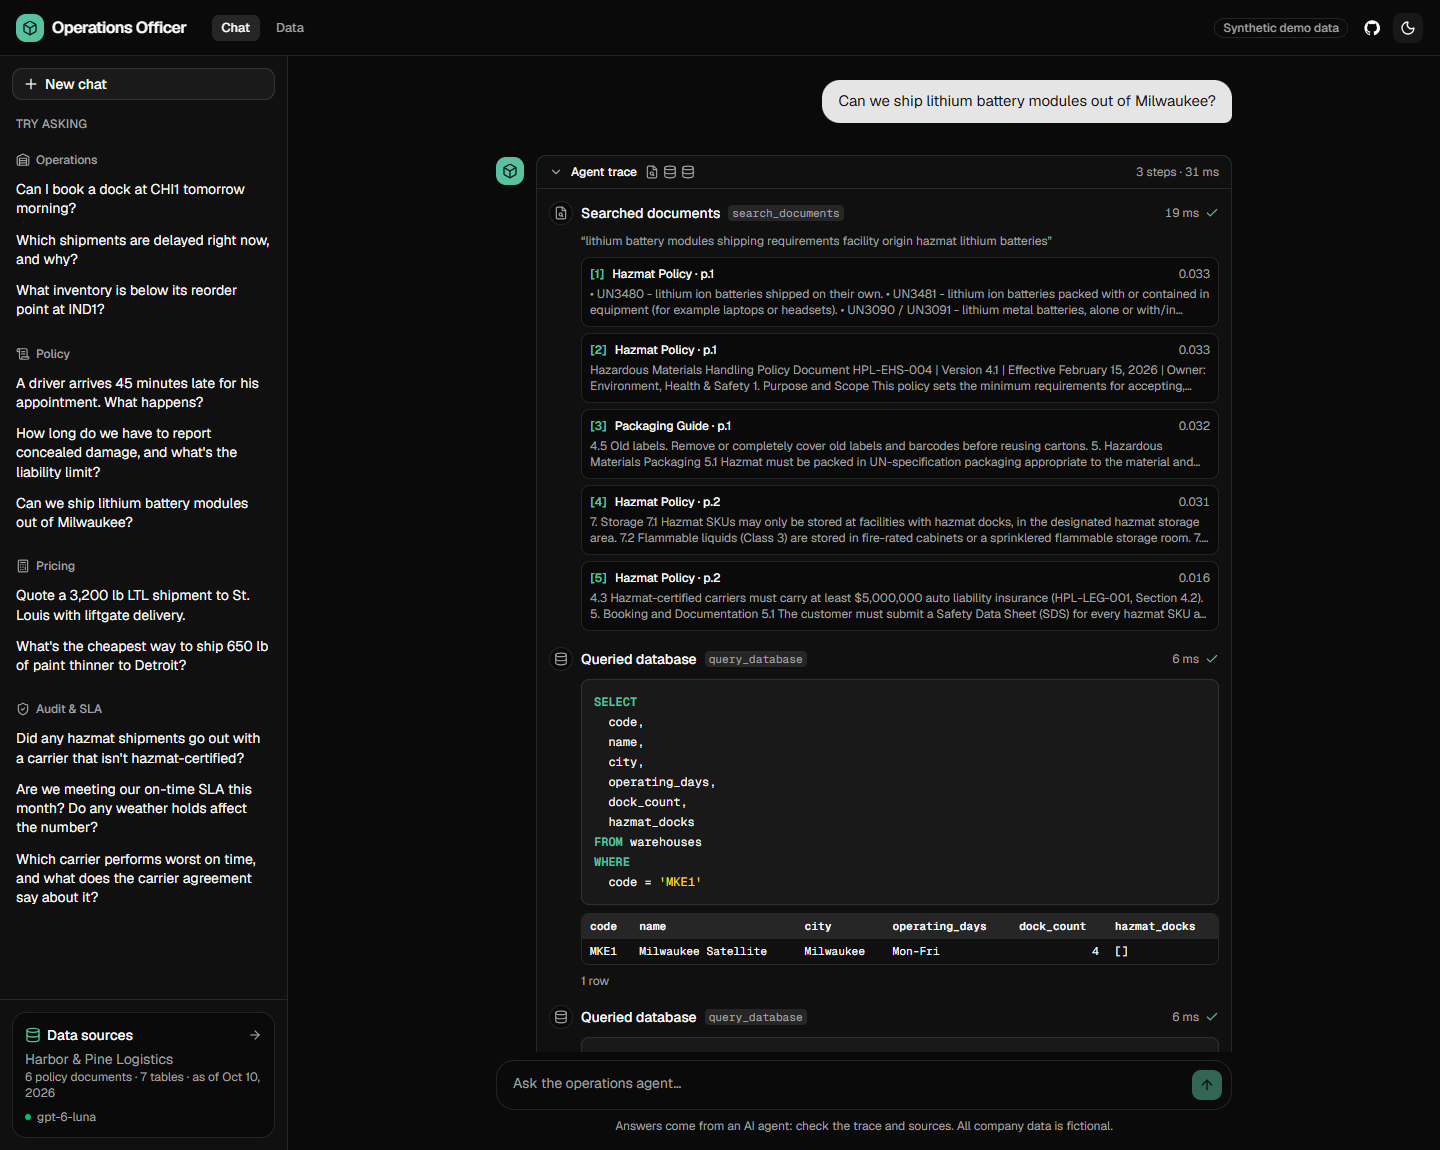
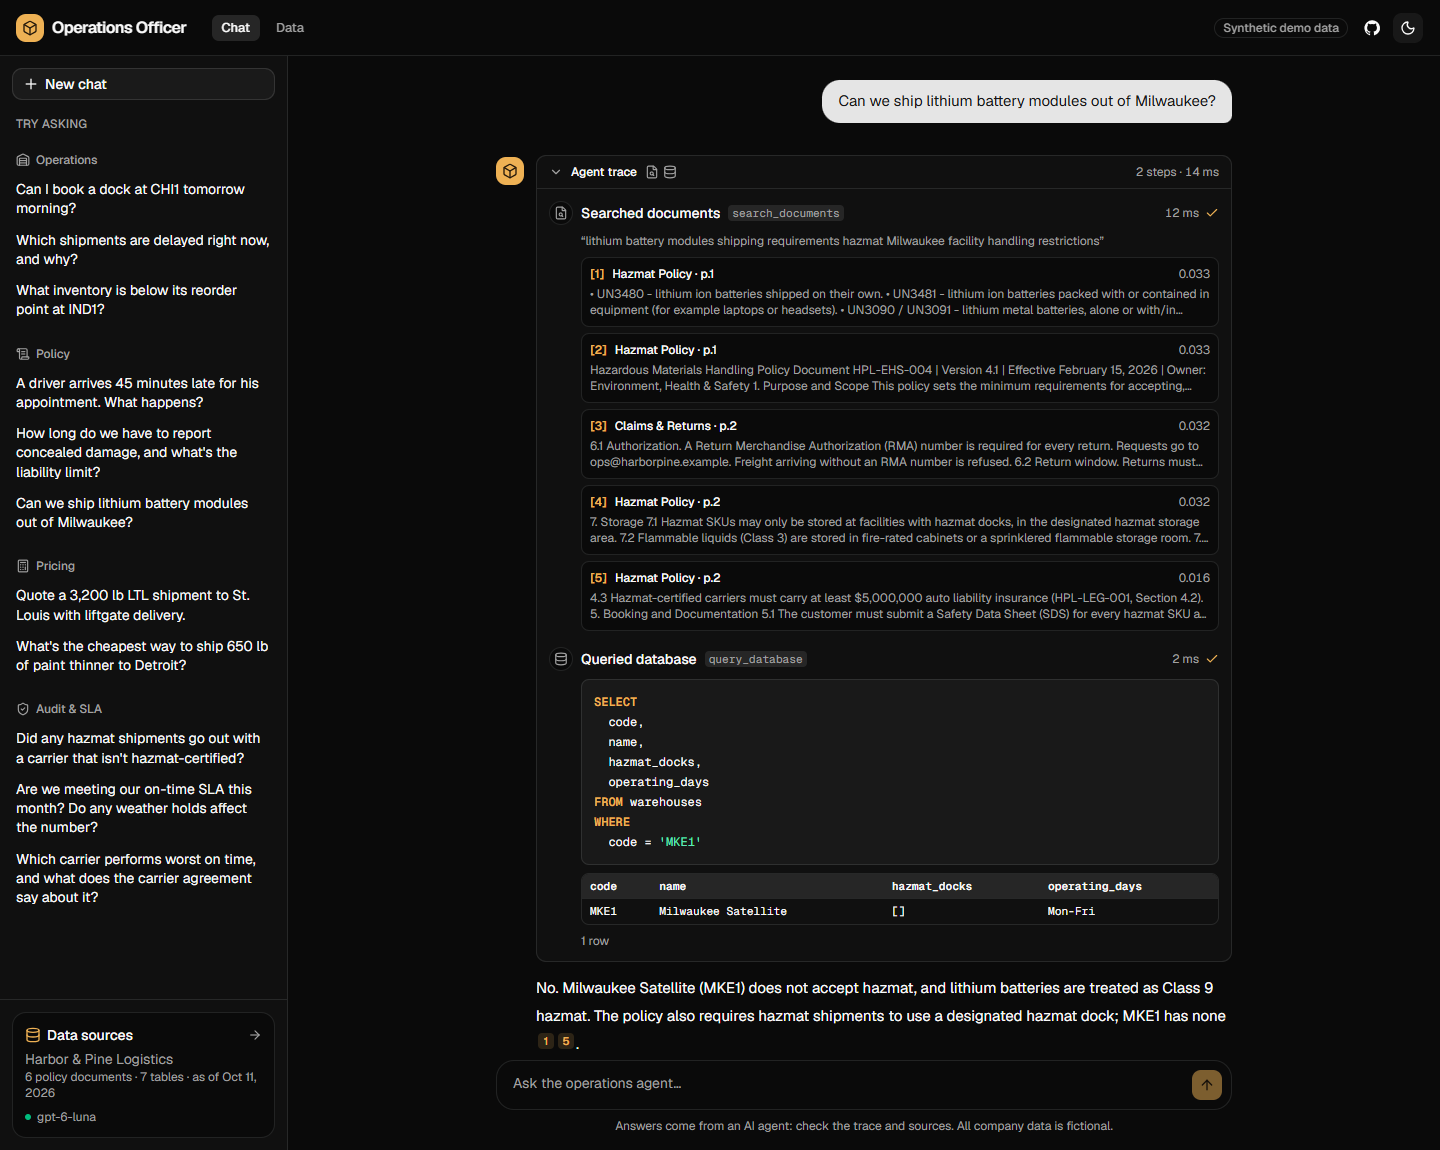
feat(frontend): warm amber brand color; status colors off the brand hue
- Brand tokens (light + dark) and favicon switched from teal to amber
- Degraded status dot and backend notices use the destructive red, so
  "needs attention" never looks like brand color
- SQL string literals highlighted green to stay distinct from brand keywords
- README screenshots retaken

diff --git a/frontend/components/chat/meta-views.tsx b/frontend/components/chat/meta-views.tsx
@@ -37,8 +37,8 @@ export function BackendNotice({ meta }: { meta: Promise<ChatMeta> }) {
     ? "The agent is disabled: the backend has no OPENAI_API_KEY. Documents and data are still browsable."
     : `${health.error} Start it with: cd backend && uv run uvicorn app.main:app --port 8000`;
   return (
-    <div className="flex gap-2 rounded-lg border border-amber-500/40 bg-amber-500/10 px-3 py-2 text-sm">
-      <AlertTriangleIcon className="mt-0.5 size-4 shrink-0 text-amber-600 dark:text-amber-400" />
+    <div className="flex gap-2 rounded-lg border border-destructive/30 bg-destructive/5 px-3 py-2 text-sm">
+      <AlertTriangleIcon className="mt-0.5 size-4 shrink-0 text-destructive" />
       <span>{message}</span>
     </div>
   );
@@ -129,7 +129,7 @@ export function DataSourcesCard({ meta }: { meta: Promise<ChatMeta> }) {
       </p>
       {health.ok && (
         <p className="mt-2 flex items-center gap-1.5 text-xs text-muted-foreground">
-          <span className={`size-1.5 rounded-full ${health.data.status === "ok" ? "bg-emerald-500" : "bg-amber-500"}`} />
+          <span className={`size-1.5 rounded-full ${health.data.status === "ok" ? "bg-emerald-500" : "bg-destructive"}`} />
           {health.data.model}
         </p>
       )}

diff --git a/frontend/app/globals.css b/frontend/app/globals.css
@@ -60,9 +60,9 @@
   --popover-foreground: oklch(0.145 0 0);
   --primary: oklch(0.205 0 0);
   --primary-foreground: oklch(0.985 0 0);
-  --brand: oklch(0.48 0.085 170);
+  --brand: oklch(0.56 0.115 70);
   --brand-foreground: oklch(0.985 0 0);
-  --brand-soft: oklch(0.96 0.025 170);
+  --brand-soft: oklch(0.965 0.03 80);
   --secondary: oklch(0.97 0 0);
   --secondary-foreground: oklch(0.205 0 0);
   --muted: oklch(0.97 0 0);
@@ -98,9 +98,9 @@
   --popover-foreground: oklch(0.985 0 0);
   --primary: oklch(0.922 0 0);
   --primary-foreground: oklch(0.205 0 0);
-  --brand: oklch(0.74 0.11 170);
-  --brand-foreground: oklch(0.2 0.03 170);
-  --brand-soft: oklch(0.3 0.04 170);
+  --brand: oklch(0.8 0.13 75);
+  --brand-foreground: oklch(0.22 0.03 70);
+  --brand-soft: oklch(0.3 0.045 70);
   --secondary: oklch(0.269 0 0);
   --secondary-foreground: oklch(0.985 0 0);
   --muted: oklch(0.269 0 0);

diff --git a/frontend/app/data/page.tsx b/frontend/app/data/page.tsx
@@ -185,8 +185,8 @@ function PagerLink({ href, disabled, label, children }: { href: string; disabled
 
 function BackendError({ message }: { message: string }) {
   return (
-    <div className="flex gap-2 rounded-lg border border-amber-500/40 bg-amber-500/10 px-3 py-2 text-sm">
-      <AlertTriangleIcon className="mt-0.5 size-4 shrink-0 text-amber-600 dark:text-amber-400" />
+    <div className="flex gap-2 rounded-lg border border-destructive/30 bg-destructive/5 px-3 py-2 text-sm">
+      <AlertTriangleIcon className="mt-0.5 size-4 shrink-0 text-destructive" />
       {message}
     </div>
   );

diff --git a/frontend/components/chat/sql-block.tsx b/frontend/components/chat/sql-block.tsx
@@ -19,7 +19,7 @@ export function SqlBlock({ sql }: { sql: string }) {
     const cls = comment
       ? "text-muted-foreground italic"
       : str
-        ? "text-amber-700 dark:text-amber-300"
+        ? "text-emerald-700 dark:text-emerald-300"
         : num
           ? "text-sky-700 dark:text-sky-300"
           : word && KEYWORDS.has(word.toLowerCase())
